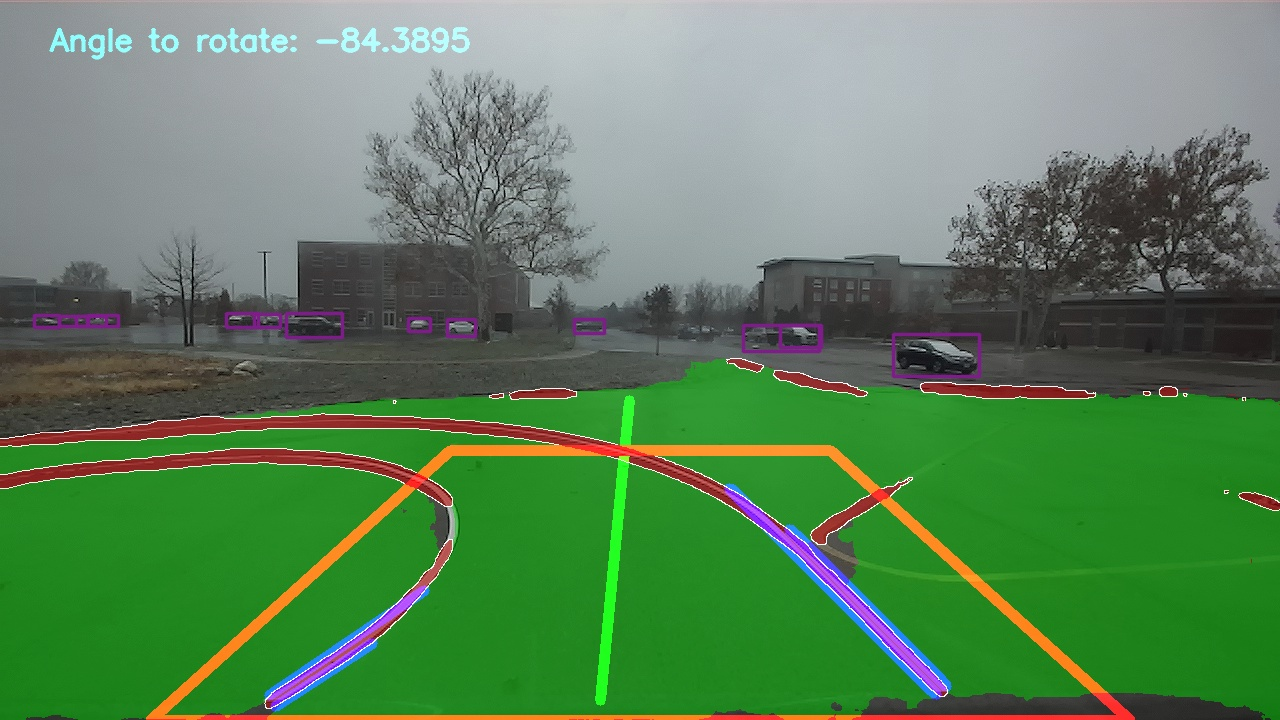
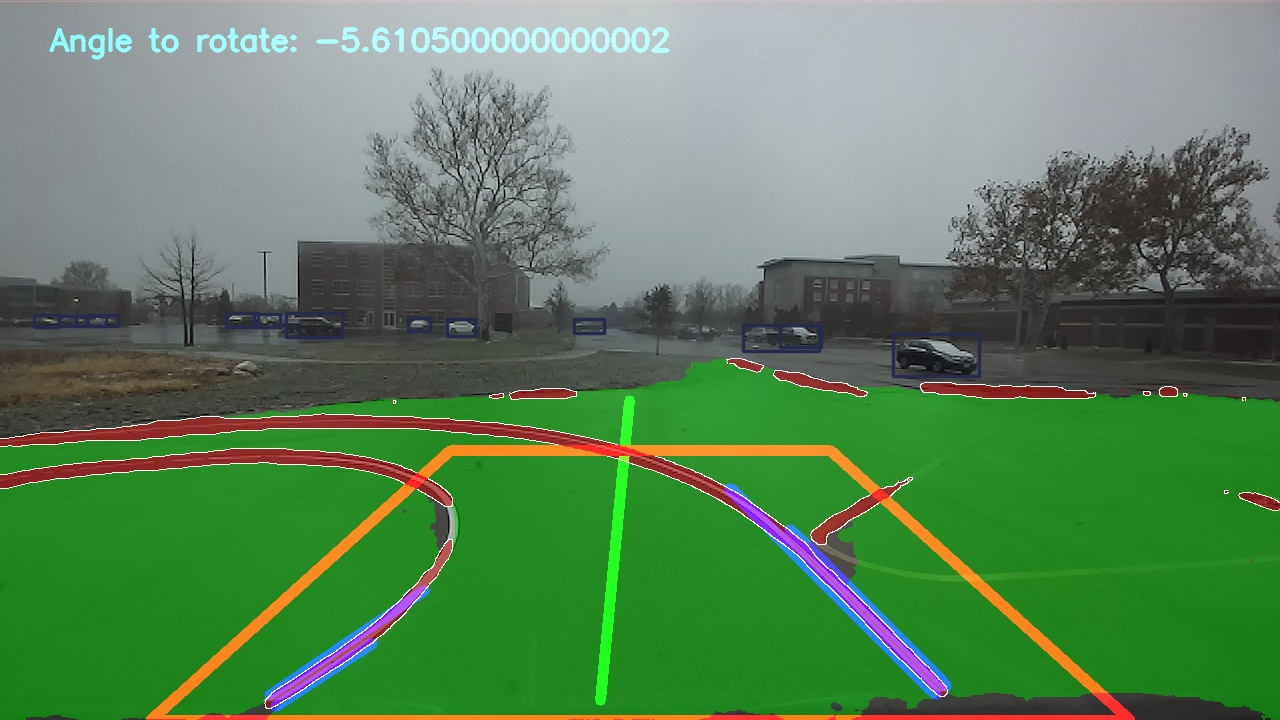
fixed angle and minor bugs

diff --git a/utils.py b/utils.py
@@ -560,6 +560,16 @@ def get_center_line(lines):
     x2 = int((400 - c)/slope)
     return (600,700),(x2,400), slope
 
+def calculate_steering_angle(slope):
+    temp = round(np.arctan(slope)*180/3.14, 4)
+    sign_ = 1
+    if temp<0:
+        sign_ = -1
+    temp = 90-abs(temp)
+
+    return temp*sign_
+    
+
 def get_lane_lines(image, opt):
     
     image = np.float32(cv2.merge((image,image,image)))    
@@ -604,7 +614,7 @@ def get_lane_lines(image, opt):
     center_line_coor1, center_line_coor2, slope = get_center_line(lines)
     #print("Slope of line is = ", slope)
     #print("angle to rotate = ", np.arctan(slope)*180/3.14)
-    angle_to_rotate = round(np.arctan(slope)*180/3.14, 4)
+    angle_to_rotate = calculate_steering_angle(slope)
     cv2.line(line_image,center_line_coor1, center_line_coor2,(0,255,0),10)
 
     # Iterate over the output "lines" and draw lines on a blank image
@@ -625,8 +635,8 @@ def get_lane_lines(image, opt):
     
     return lines_edges, angle_to_rotate
 
-def detect(opt):
-
+#### for image and video files
+def detect_static(opt):
     # Load model
     device = opt.device
     model = get_net()
@@ -680,7 +690,7 @@ def detect(opt):
         # Apply NMS
         det_pred = non_max_suppression(inf_out, conf_thres=opt.conf_thres, iou_thres=opt.iou_thres, classes=None, agnostic=False)
         det=det_pred[0]
-#         print(shapes)
+
         # Set basic variables
         _, _, height, width = img.shape
         h,w,_=img_det.shape
@@ -717,10 +727,9 @@ def detect(opt):
         
         if lanes_in_roi is not None:
             img_det = cv2.addWeighted(img_det, 0.8, lanes_in_roi, 1.0, 0.0)
-        print("#############################", dataset.mode)
+
         if dataset.mode == 'images':
             cv2.imwrite(save_path,img_det)
-
         elif dataset.mode == 'video':
             if vid_path != save_path:  # new video
                 vid_path = save_path
@@ -729,16 +738,103 @@ def detect(opt):
 
                 fourcc = 'mp4v'  # output video codec
                 fps = vid_cap.get(cv2.CAP_PROP_FPS)
-#                 fps = 5
                 print("The fps of video is:", fps)
                 h,w,_=img_det.shape
                 vid_writer = cv2.VideoWriter(save_path, cv2.VideoWriter_fourcc(*fourcc), fps, (w, h))
             vid_writer.write(img_det)
-        
-        else: # dataset.mode == 'stream'
-            yield img_det, angle_to_rotate
-            
 
+    print('Results saved to %s' % Path(opt.save_dir))
+
+#### for streams
+def detect_streams(opt):
+    # Load model
+    device = opt.device
+    model = get_net()
+    checkpoint = torch.load(opt.weights, map_location= device)
+    model.load_state_dict(checkpoint['state_dict'])
+    model = model.to(device)
+    
+    # OPTIONAL: half precision to make faster processing
+    half = device.type != 'cpu'  # half precision only supported on CUDA
+    if half and opt.implement_half_precision:
+        model.half()  # to FP16
+        
+    # Set Dataloader
+    if opt.source.isnumeric():
+        cudnn.benchmark = True  # set True to speed up constant image size inference
+        dataset = LoadStreams(opt.source, img_size=opt.img_size)
+        bs = len(dataset)  # batch_size
+    else:
+        dataset = LoadImages(opt.source, img_size=opt.img_size)
+        bs = 1  # batch_size
+        
+    # Get names and colors
+    names = model.module.names if hasattr(model, 'module') else model.names
+    colors= [[random.randint(0, 255) for _ in range(3)] for _ in range(len(names))]
+    
+    # Steps for half precision
+    if opt.implement_half_precision:
+        img = torch.zeros((1, 3, opt.img_size, opt.img_size), device=device)  # init img
+        _ = model(img.half() if half else img) if device.type != 'cpu' else None  # run once
+    
+    model.eval()
+    vid_path, vid_writer = None, None
+    for i, (path, img, img_det, vid_cap,shapes) in tqdm(enumerate(dataset),total = len(dataset)):
+        
+        img = transform(img).to(device)
+        if opt.implement_half_precision:
+            img = img.half() if half else img.float()  # uint8 to fp16/32
+        
+        if img.ndimension() == 3:
+            img = img.unsqueeze(0)
+
+        # Inference
+        det_out, da_seg_out,ll_seg_out = model(img)
+        inf_out, _ = det_out
+
+        # Apply NMS
+        det_pred = non_max_suppression(inf_out, conf_thres=opt.conf_thres, iou_thres=opt.iou_thres, classes=None, agnostic=False)
+        det=det_pred[0]
+
+        # Set basic variables
+        _, _, height, width = img.shape
+        h,w,_=img_det.shape
+        pad_w, pad_h = shapes[1][1]
+        pad_w = int(pad_w)
+        pad_h = int(pad_h)
+        ratio = shapes[1][0][1]
+        if ratio>1:
+            ratio = 1
+
+        #### Drivable area mask
+        da_predict = da_seg_out[:, :, pad_h:(height-pad_h),pad_w:(width-pad_w)]
+        da_seg_mask = torch.nn.functional.interpolate(da_predict, scale_factor=int(1/ratio), mode='bilinear')
+        _, da_seg_mask = torch.max(da_seg_mask, 1)
+        da_seg_mask = da_seg_mask.int().squeeze().cpu().numpy()
+        
+        #### Lanes detected mask
+        ll_predict = ll_seg_out[:, :,pad_h:(height-pad_h),pad_w:(width-pad_w)]
+        ll_seg_mask = torch.nn.functional.interpolate(ll_predict, scale_factor=int(1/ratio), mode='bilinear')
+        _, ll_seg_mask = torch.max(ll_seg_mask, 1)
+        ll_seg_mask = ll_seg_mask.int().squeeze().cpu().numpy()
+        lanes_in_roi, angle_to_rotate = get_lane_lines((ll_seg_mask*255).astype(np.uint8), opt) 
+        
+        #### apply both masks
+        img_det = cv2.resize(img_det, (da_seg_mask.shape[1], da_seg_mask.shape[0]), interpolation = cv2.INTER_AREA)
+        img_det = show_seg_result(img_det, (da_seg_mask, ll_seg_mask), _, _, is_demo=True)
+        
+        #### Object detection
+        if len(det):
+            det[:,:4] = scale_coords(img.shape[2:],det[:,:4],img_det.shape).round()
+            for *xyxy,conf,cls in reversed(det):
+                label_det_pred = f'{names[int(cls)]} {conf:.2f}'
+                plot_one_box(xyxy, img_det , label=label_det_pred, color=colors[int(cls)], line_thickness=2)
+        
+        if lanes_in_roi is not None:
+            img_det = cv2.addWeighted(img_det, 0.8, lanes_in_roi, 1.0, 0.0)
+
+        # dataset.mode == 'stream'
+        yield img_det, angle_to_rotate
     print('Results saved to %s' % Path(opt.save_dir))
 
 

diff --git a/main.py b/main.py
@@ -1,9 +1,9 @@
 import torch
-from utils import detect
+from utils import detect_streams, detect_static
 import cv2
 import time
-start_time = time.time()
 
+start_time = time.time()
 if __name__ == '__main__':
     class vars_:
         device = torch.device("cuda:0" if torch.cuda.is_available() else "cpu")
@@ -19,15 +19,16 @@ if __name__ == '__main__':
         text_color = (255,255,0)
         implement_half_precision = True
         save_dir = "test_output/"
-        source = '0'  # [path to image/video] OR ['0' for camera on PC] 
+        # source = '0'  # [path to image/video] OR ['0' for camera on PC] 
+        source = 'test_data/1668636704120.jpg'
         weights = "model_weights/End-to-end.pth"
 
     opt = vars_
     with torch.no_grad():
         if opt.source != '0':
-            detect(opt)
+            detect_static(opt)
         else:
-            for img, angle in detect(opt):
+            for img, angle in detect_streams(opt):
                 print(angle)
                 cv2.imshow('image', img)
                 cv2.waitKey(1)  # 1 millisecond

diff --git a/README.md b/README.md
@@ -1,0 +1,1 @@
+hihihi
